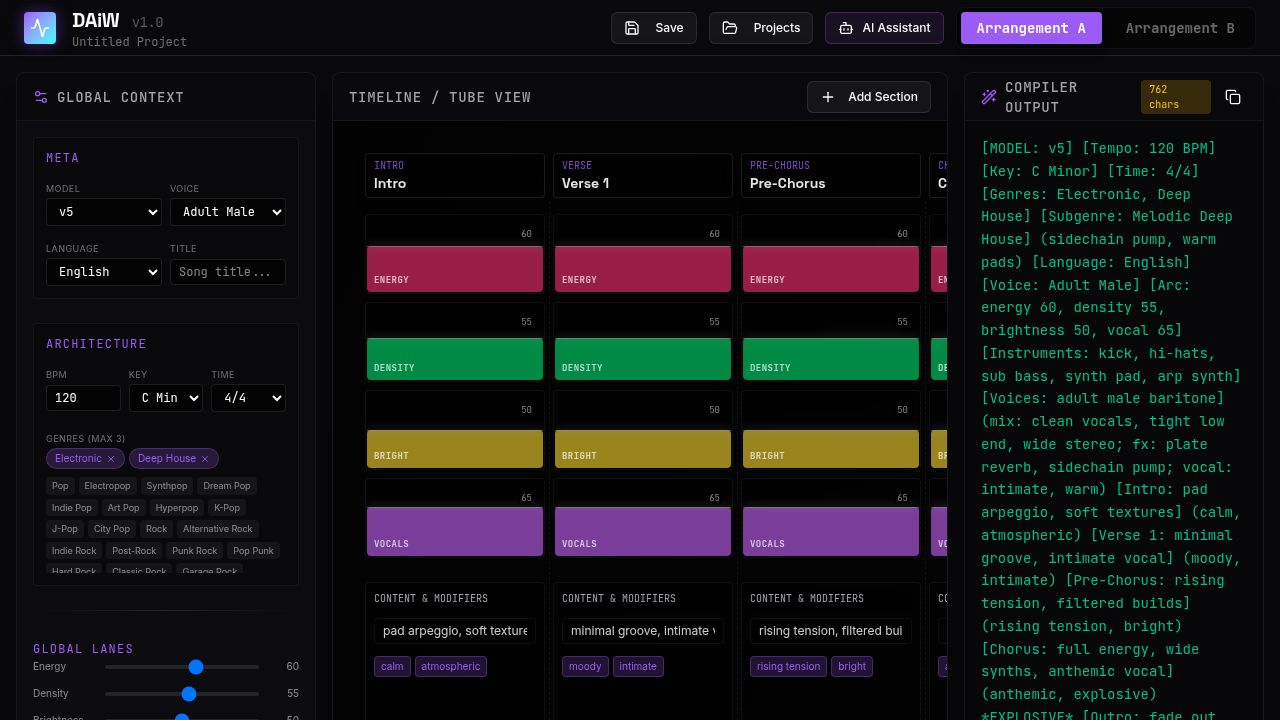
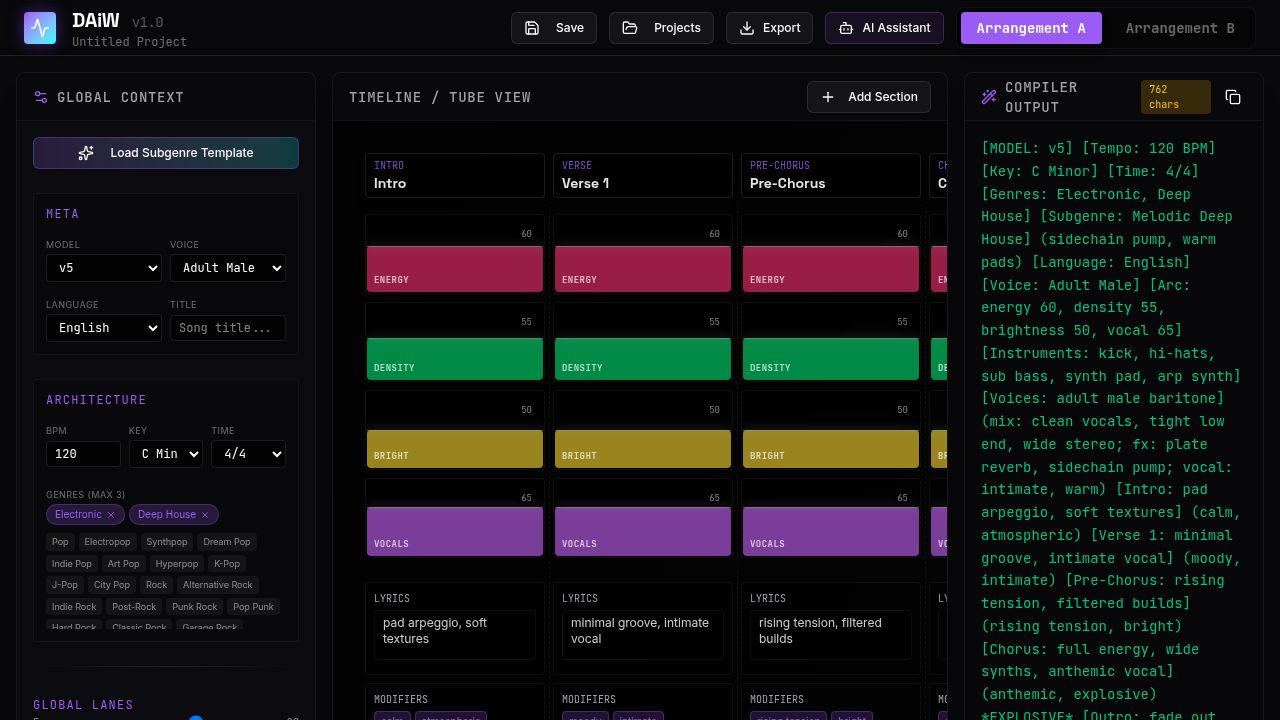
Fix AI panel, scrolling, and lyrics input functionality
Resolved React hooks error in AgentPanel by reordering hook calls, added a backdrop for closing, fixed horizontal scrolling in Tube view, and separated lyrics and modifiers input fields with character count.

Replit-Commit-Author: Agent
Replit-Commit-Session-Id: fc15f2a7-c48c-46ab-bfd9-21ede4128b35
Replit-Commit-Checkpoint-Type: full_checkpoint
Replit-Commit-Event-Id: 44b1f6e4-1d93-4806-86d2-b8eb72c3ce14
Replit-Commit-Screenshot-Url: https://storage.googleapis.com/screenshot-production-us-central1/7a2c2e0d-7b1f-4006-b147-cf29c88f2ba5/fc15f2a7-c48c-46ab-bfd9-21ede4128b35/uxYHPtm
Replit-Helium-Checkpoint-Created: true

diff --git a/client/src/components/sequencer/Tube.tsx b/client/src/components/sequencer/Tube.tsx
@@ -89,8 +89,8 @@ export function Tube() {
         </div>
       </div>
 
-      <div className="flex-1 overflow-x-auto overflow-y-hidden relative no-scrollbar bg-gradient-to-br from-black/80 to-black/60" ref={containerRef}>
-        <div className="absolute inset-0 bg-[radial-gradient(ellipse_at_top,_var(--tw-gradient-stops))] from-primary/5 via-transparent to-transparent" />
+      <div className="flex-1 overflow-x-auto overflow-y-hidden relative bg-gradient-to-br from-black/80 to-black/60" ref={containerRef} style={{ overflowX: 'scroll' }}>
+        <div className="absolute inset-0 bg-[radial-gradient(ellipse_at_top,_var(--tw-gradient-stops))] from-primary/5 via-transparent to-transparent pointer-events-none" />
         
         <div className="relative flex h-full p-8 min-w-max z-10">
           
@@ -180,34 +180,54 @@ export function Tube() {
                     onChange={(v) => setSectionLaneValue(section.id, 'vocalPresence', v)}
                   />
 
-                  <div className="mt-4 flex-1 flex flex-col gap-2 overflow-y-auto no-scrollbar">
-                    {/* Lyrics Input */}
-                    <div className="bg-black/40 rounded border border-white/5 p-2 shadow-inner">
-                      <div className="text-[10px] text-muted-foreground font-mono uppercase mb-1">
-                        Lyrics
-                      </div>
-                      <textarea
-                        value={section.content}
-                        onChange={(e) => updateSection(section.id, { content: e.target.value })}
-                        placeholder="Enter lyrics or description..."
-                        className="w-full bg-black/30 border border-white/5 rounded px-2 py-1 text-xs text-white/80 outline-none resize-none min-h-[50px]"
-                        data-testid={`textarea-section-content-${section.id}`}
-                      />
+                  {/* Lyrics Input - Separate Section */}
+                  <div className="mt-3 bg-black/40 rounded border border-white/5 p-2 shadow-inner">
+                    <div className="text-[10px] text-muted-foreground font-mono uppercase mb-1 flex items-center gap-1">
+                      <span className="text-primary">Lyrics</span>
+                      <span className="text-white/30 text-[8px]">({section.content?.length || 0} chars)</span>
                     </div>
+                    <textarea
+                      value={section.content}
+                      onChange={(e) => updateSection(section.id, { content: e.target.value })}
+                      placeholder="Enter lyrics or description..."
+                      className="w-full bg-black/30 border border-white/10 rounded px-2 py-1.5 text-xs text-white/90 outline-none resize-none min-h-[60px] focus:border-primary/50 transition-colors"
+                      rows={3}
+                      data-testid={`textarea-section-content-${section.id}`}
+                    />
+                  </div>
 
-                    {/* Modifiers Input */}
-                    <div className="bg-black/40 rounded border border-white/5 p-2 shadow-inner">
-                      <div className="text-[10px] text-muted-foreground font-mono uppercase mb-1">
-                        Modifiers
-                      </div>
-                      <div className="flex flex-wrap gap-1">
-                        {section.modifiers.map((mod, i) => (
-                          <span key={i} className="text-[10px] px-1.5 py-0.5 rounded bg-primary/20 text-primary border border-primary/30">
-                            {mod}
-                          </span>
-                        ))}
-                      </div>
+                  {/* Modifiers Input - Separate Section */}
+                  <div className="mt-2 bg-black/40 rounded border border-white/5 p-2 shadow-inner">
+                    <div className="text-[10px] text-muted-foreground font-mono uppercase mb-1">
+                      <span className="text-secondary">Modifiers</span>
                     </div>
+                    <div className="flex flex-wrap gap-1 mb-1">
+                      {section.modifiers.map((mod, i) => (
+                        <span 
+                          key={i} 
+                          className="text-[10px] px-1.5 py-0.5 rounded bg-secondary/20 text-secondary border border-secondary/30 cursor-pointer hover:bg-secondary/30"
+                          onClick={() => {
+                            const newModifiers = section.modifiers.filter((_, idx) => idx !== i);
+                            updateSection(section.id, { modifiers: newModifiers });
+                          }}
+                        >
+                          {mod} ×
+                        </span>
+                      ))}
+                    </div>
+                    <input
+                      type="text"
+                      placeholder="Add modifier..."
+                      className="w-full bg-black/30 border border-white/10 rounded px-2 py-1 text-[10px] text-white/70 outline-none focus:border-secondary/50"
+                      onKeyDown={(e) => {
+                        if (e.key === 'Enter' && e.currentTarget.value.trim()) {
+                          const newModifiers = [...section.modifiers, e.currentTarget.value.trim()];
+                          updateSection(section.id, { modifiers: newModifiers });
+                          e.currentTarget.value = '';
+                        }
+                      }}
+                      data-testid={`input-section-modifier-${section.id}`}
+                    />
                   </div>
                 </div>
                 

diff --git a/client/src/components/AgentPanel.tsx b/client/src/components/AgentPanel.tsx
@@ -39,11 +39,10 @@ interface AgentPanelProps {
 export function AgentPanel({ isOpen, onClose, currentPrompt }: AgentPanelProps) {
   const [activeTab, setActiveTab] = useState<"analyze" | "creative" | "improve" | "logs">("analyze");
   const [improvementTopic, setImprovementTopic] = useState("");
+  const [copied, setCopied] = useState(false);
   const doc = useStore((s) => s.doc);
   
   const hasValidPrompt = Boolean(currentPrompt && currentPrompt.trim().length > 10);
-
-  if (!isOpen) return null;
 
   const { data: logs = [], isLoading: logsLoading } = useQuery<AgentLog[]>({
     queryKey: ["/api/agent/logs"],
@@ -126,8 +125,6 @@ export function AgentPanel({ isOpen, onClose, currentPrompt }: AgentPanelProps) 
     },
   });
 
-  const [copied, setCopied] = useState(false);
-
   const copyToClipboard = async (text: string) => {
     await navigator.clipboard.writeText(text);
     setCopied(true);
@@ -136,15 +133,21 @@ export function AgentPanel({ isOpen, onClose, currentPrompt }: AgentPanelProps) 
   };
 
   const applyOptimizedPrompt = (prompt: string) => {
-    // This is a simplified implementation - in a real app you might want to parse the prompt
-    // For now we'll just update a hypothetical 'globalDescription' or similar
-    // Since the compiler generates the prompt from the doc, we'd ideally reverse-map it
-    // But for this prototype, we'll just show the feedback.
     toast.info("Prompt optimization suggestions applied to analysis view.");
   };
 
+  if (!isOpen) {
+    return null;
+  }
+
   return (
-    <div className="fixed inset-y-0 right-0 w-96 bg-card/95 backdrop-blur-lg border-l border-white/10 z-[100] flex flex-col shadow-2xl" data-testid="agent-panel">
+    <>
+      <div 
+        className="fixed inset-0 bg-black/50 z-[99]" 
+        onClick={onClose}
+        data-testid="agent-panel-backdrop"
+      />
+      <div className="fixed inset-y-0 right-0 w-96 bg-card/95 backdrop-blur-lg border-l border-white/10 z-[100] flex flex-col shadow-2xl" data-testid="agent-panel">
       <div className="h-14 border-b border-white/10 flex items-center justify-between px-4 shrink-0">
         <div className="flex items-center gap-2">
           <Bot className="w-5 h-5 text-primary" />
@@ -418,6 +421,7 @@ export function AgentPanel({ isOpen, onClose, currentPrompt }: AgentPanelProps) 
           </>
         )}
       </div>
-    </div>
+      </div>
+    </>
   );
 }
